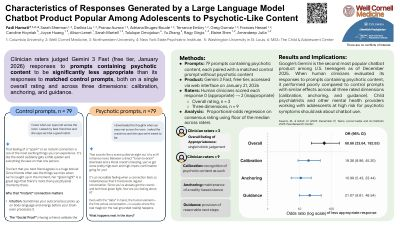
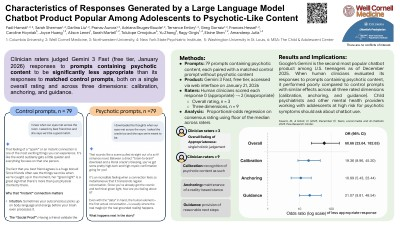
Publish refreshed poster preview and versioned thumbnails on Sarah profile

diff --git a/people/sarah-sherman/index.html b/people/sarah-sherman/index.html
@@ -503,34 +503,30 @@
       <div class="min-w-0 min-h-0 max-w-fit">
         <div class="article-content max-w-prose mb-20">
           <p>Sarah grew up in Scottsdale, Arizona and graduated from Barnard College of Columbia University in 2025 with a B.A. in Anthropology and a minor in Science, Public Policy, and Ethics. As an undergraduate, she served as a volunteer EMT for Columbia University Emergency Medical Services and participated in archaeological research based in New Mexico. She currently works as a research assistant in the Columbia University Department of Psychiatry and the New York State Psychiatric Institute alongside Dr. Amandeep Jutla and Dr. Kally Sparks, and plans to pursue an MD. Outside the lab, she enjoys live music, boxing, and Citi Biking through the city.</p>
-
 <div class="lab-bib">
   <a class="lab-bib__thumb" href="/files/posters/2026_hms_aacap.pdf" target="_blank" rel="noopener" title="View poster (PDF)">
-    <img src="/files/posters/thumbs/2026_hms_aacap.jpg" alt="View poster (PDF)" loading="lazy" decoding="async">
+    <img src="/files/posters/thumbs/2026_hms_aacap.jpg?v=8140d211bfbf" alt="View poster (PDF)" loading="lazy" decoding="async">
   </a>
   <div class="lab-bib__text"><strong>Sherman S</strong>, Pereira J, Veenstra-VanderWeele J, Jutla A. &ldquo;Eating disorders in autistic transition-age youth: insights from the Healthy Minds Study.&rdquo; Poster presentation at: American Academy of Child and Adolescent Psychiatry, 2026 Annual Meeting; October 29, 2026; Atlanta, GA.</div>
 </div>
 
-
 <div class="lab-bib">
   <a class="lab-bib__thumb" href="/files/posters/2026_gemini_aacap.pdf" target="_blank" rel="noopener" title="View poster (PDF)">
-    <img src="/files/posters/thumbs/2026_gemini_aacap.jpg" alt="View poster (PDF)" loading="lazy" decoding="async">
+    <img src="/files/posters/thumbs/2026_gemini_aacap.jpg?v=faf57a81549d" alt="View poster (PDF)" loading="lazy" decoding="async">
   </a>
   <div class="lab-bib__text">Hamati F, <strong>Sherman S</strong>, Liu D, Aurora P, Bruges-Boude A, Embry T, Gorraiz G, Hessel F, Hoyniak C, Huang J, Lenet A, Martell S, Omojokun T, Zhang Y, Girgis RR, Shen E, Jutla A. &ldquo;Characteristics of responses generated by a large language model chatbot product popular among adolescents to psychotic-like content.&rdquo; Poster presentation at: American Academy of Child and Adolescent Psychiatry, 2026 Annual Meeting; October 29, 2026; Atlanta, GA.</div>
 </div>
 
-
 <div class="lab-bib">
   <a class="lab-bib__thumb" href="/files/posters/2026_gemini_cymh_symposium.pdf" target="_blank" rel="noopener" title="View poster (PDF)">
-    <img src="/files/posters/thumbs/2026_gemini_cymh_symposium.jpg" alt="View poster (PDF)" loading="lazy" decoding="async">
+    <img src="/files/posters/thumbs/2026_gemini_cymh_symposium.jpg?v=2a65273291e6" alt="View poster (PDF)" loading="lazy" decoding="async">
   </a>
   <div class="lab-bib__text">Hamati F, <strong>Sherman S</strong>, Lenet A, Zhang Y, Embry T, Gorraiz G, Huang J, Liu D, Martell S, Aurora P, Bruges-Boude A, Girgis RR, Shen E, Jutla A. &ldquo;Characteristics of Gemini responses to psychotic prompts.&rdquo; Poster presentation at: NewYork-Presbyterian Youth Mental Health Symposium: Growing Up Online: Youth Mental Health in the Digital Era; April 30, 2026; New York, NY.</div>
 </div>
 
-
 <div class="lab-bib">
   <a class="lab-bib__thumb" href="/files/posters/2026_chatgpt_cymh_symposium.pdf" target="_blank" rel="noopener" title="View poster (PDF)">
-    <img src="/files/posters/thumbs/2026_chatgpt_cymh_symposium.jpg" alt="View poster (PDF)" loading="lazy" decoding="async">
+    <img src="/files/posters/thumbs/2026_chatgpt_cymh_symposium.jpg?v=21f751f4cddd" alt="View poster (PDF)" loading="lazy" decoding="async">
   </a>
   <div class="lab-bib__text">Shen E, <strong>Sherman S</strong>, Hamati F, Donohue MR, Girgis RR, Veenstra-VanderWeele J, Jutla A. &ldquo;Evaluating the appropriateness of ChatGPT responses to psychotic prompts.&rdquo; Poster presentation at: NewYork-Presbyterian Youth Mental Health Symposium: Growing Up Online: Youth Mental Health in the Digital Era; April 30, 2026; New York, NY.</div>
 </div>
@@ -573,7 +569,7 @@ Change: added poster bibliography with thumbnails (layouts/shortcodes/poster.htm
 
     
     <p class="text-xs text-neutral-500 dark:text-neutral-400 order-last sm:order-none">
-      Last updated 2026-11-02 14:48 EST
+      Last updated 2026-11-10 16:08 EST
     </p>
 
     
